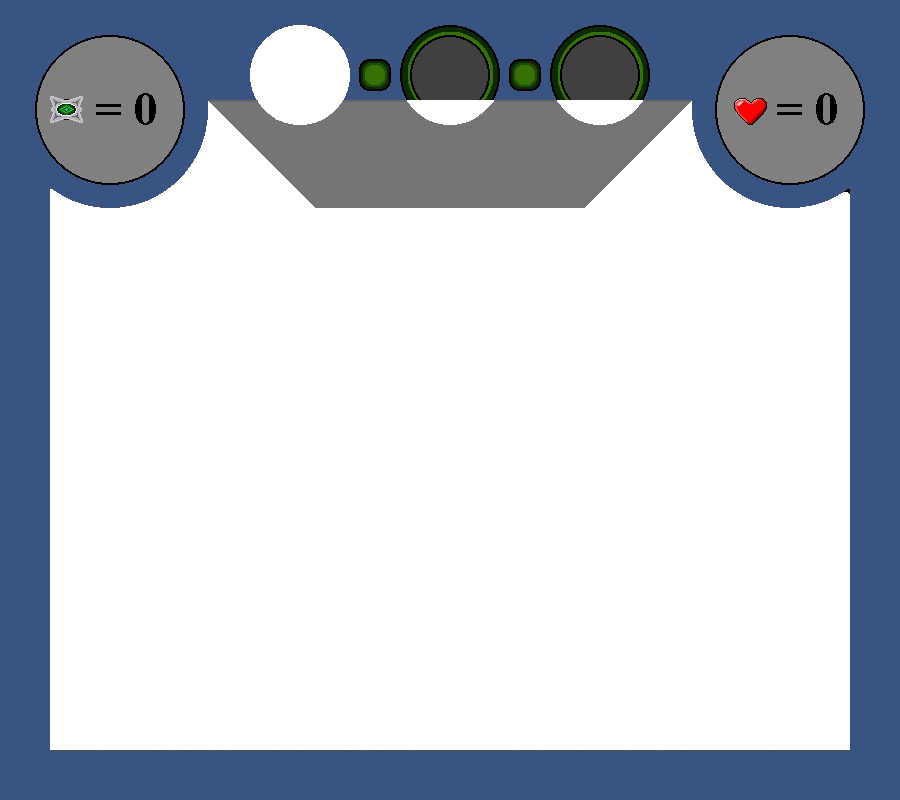
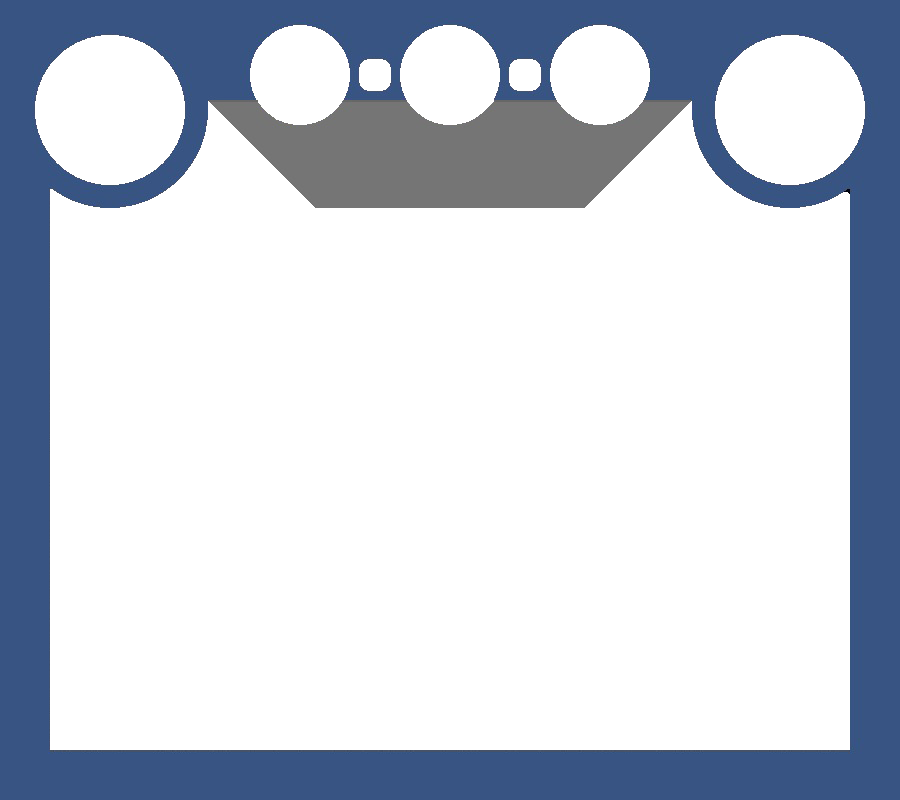
UI is WIP, but much progress was made.  PowerUp images are placeholder using existing animations to show what it could look like.

Changed region(s): [[0.7778, 0.0312, 0.9644, 0.25], [0.0311, 0.0312, 0.2178, 0.25], [0.4044, 0.0312, 0.7467, 0.125]]

diff --git a/js/GameScene.js b/js/GameScene.js
@@ -2,6 +2,7 @@
 const PowerUpType = {
 	None:"none",
 	Speed:"speed",
+	Missile:"missile",
 	Double:"double",
 	Laser:"laser",
 	Triple:"triple",
@@ -30,6 +31,7 @@ function GameScene(levelIndex) {
 	const enemyBullets = new Set();
 	let score = 0;
 	let powerUpToActivate = PowerUpType.None;
+	let uiManager = new UIManager();
 	
 	const populateWorld = function(worldPos) {
 		const terrain = data.initializeTerrain();
@@ -100,6 +102,8 @@ function GameScene(levelIndex) {
 		collisionBodiesToRemove = [];
 		
 		if(this.shaking) {this.screenShake();}
+		
+		uiManager.update(deltaTime);
 	};
 	
 	this.reset = function() {
@@ -203,13 +207,12 @@ function GameScene(levelIndex) {
 
 		drawPowerUpBar(PowerUpType, powerUpToActivate);
 
-		drawGameFrame();
+		uiManager.draw();
 //	    score.draw();//TODO: implement this
 	};
 	
 	this.collectedCapsule = function() {
 		incrementPowerUpToActivate();
-		console.log("Update UI to show that the player collected another capsule");
 	};
 	
 	this.removePlayer = function() {
@@ -220,6 +223,7 @@ function GameScene(levelIndex) {
 			remainingLives--;
 			player.reset();
 			powerUpToActivate = PowerUpType.None;
+			uiManager.reset();
 		}
 	};
 	
@@ -272,9 +276,11 @@ function GameScene(levelIndex) {
 		switch(powerUpToActivate) {
 			case PowerUpType.None:
 				powerUpToActivate = PowerUpType.Speed;
-				//powerUpToActivate = PowerUpType.Laser;
 				break;
 			case PowerUpType.Speed:
+				powerUpToActivate = PowerUpType.Missile;
+				break;
+			case PowerUpType.Missile:
 				powerUpToActivate = PowerUpType.Double;
 				break;
 			case PowerUpType.Double:
@@ -293,22 +299,32 @@ function GameScene(levelIndex) {
 				powerUpToActivate = PowerUpType.Force;
 				break;
 			case PowerUpType.Force:
-				powerUpToActivate = PowerUpType.None;
+				powerUpToActivate = PowerUpType.Speed;
 				break;
 		}
+
+		uiManager.incrementActivePowerUp();
 		printPowerUps(PowerUpType, powerUpToActivate);
-		console.log("PowerUp To Activate: " + powerUpToActivate);
 	}
 	
 	this.activatePowerUp = function() {
-		console.log('activating power up');
+		if(!uiManager.getCanActivatePowerUp()) {
+			//play buzzer => can't activate a power up right now
+			return;
+		}
+		
 		switch(powerUpToActivate) {
 			case PowerUpType.None:
 				return;//No power up so exit now and don't play the activation sound
 			case PowerUpType.Speed:
 				player.incrementSpeed();
 				powerUpToActivate = PowerUpType.None;
-				return;
+				break;
+			case PowerUpType.Missile:
+//				player.[Give The Player Missiles];//TODO: implement this
+				console.log("Tried to give the player Missiles");
+				powerUpToActivate = PowerUpType.None;
+				break;
 			case PowerUpType.Double:
 //				player.setShotTo(EntityType.PlayerDouble);//TODO: restore this once Double is implemented
 				console.log("Tried to set player shot to Double");
@@ -341,6 +357,8 @@ function GameScene(levelIndex) {
 			default:
 				break;
 		}
+		
+		uiManager.reset();
 		//powerUpActivated.play();//TODO: need this SFX track in the game, goes at the end so it isn't played if "None" is the power up
 	};
 	
@@ -400,10 +418,6 @@ function GameScene(levelIndex) {
 
 	};
 	
-	const drawGameFrame = function() {
-		canvasContext.drawImage(gameFrame, 0, 0, gameFrame.width, gameFrame.height, 0, 0, canvas.width, canvas.height);
-	}
-
 	const printPowerUps = function(powerUpItems, selected = powerUpToActivate) {
 		const powerUpNames = Object.values(powerUpItems);
 		const DISABLED_COLOR = '#A8A8A8';

diff --git a/js/UIEntities/PowerUpUI.js b/js/UIEntities/PowerUpUI.js
@@ -1,0 +1,94 @@
+//PowerUpUI
+function PowerUpUI(position, highlighted = false, contains = PowerUpType.None) {
+	this.position = {x: position.x, y: position.y};
+	let isLit = highlighted;
+	let contentsType = contains;
+	
+	let darkSprite = new AnimatedSprite(darkPowerUpUI, 5, 100, 100, true, true, {min: 0, max: 0}, 0, {min: 0, max: 4}, 256, {min: 4, max: 4}, 0);
+	let lightSprite = new AnimatedSprite(lightedPowerUpUI, 5, 100, 100, true, true, {min: 0, max: 0}, 0, {min: 0, max: 4}, 256, {min: 4, max: 4}, 0);
+	
+	let sprite = darkSprite;
+	if(isLit) {
+		console.log("Lit");
+		sprite = lightSprite;
+	}
+	
+	this.size = {width:sprite.width, height:sprite.height};
+	
+	const spriteForContentsType = function(type) {
+		switch(type) {
+			case PowerUpType.None:
+				return null;
+			case PowerUpType.Speed:
+				return (new AnimatedSprite(flyingEnemySheet, 5, 30, 21, true, true, {min:0, max:0}, 0, {min:0, max:4}, 128, {min:4, max:4}, 0));
+				return null;//TODO: need a spritesheet for this
+			case PowerUpType.Missile:
+				return (new AnimatedSprite(flyingEnemy2Sheet, 6, 50, 50, false, true, {min:0, max:0}, 0, {min:0, max:5}, 256, {min:5, max:5}, 0));
+				return null;//TODO: need a spritesheet for this
+			case PowerUpType.Double:
+				return (new AnimatedSprite(playerBoom2Sheet, 13, 80, 80, false, true, {min:0, max:0}, 0, {min:0, max:12}, 64, {min:12, max: 12}, 0));
+				return null;//TODO: need a spritesheet for this
+			case PowerUpType.Laser:
+				return (new AnimatedSprite(playerLaserShot, 13, 28, 6, false, true, {min:0, max:0}, 0, {min:0, max:12}, 128, {min:13, max:18}, 64));
+/*			case PowerUpType.Triple:
+				return null;//TODO: need a spritesheet for this
+			case PowerUpType.Ghost:
+				return null;//TODO: need a spritesheet for this
+			case PowerUpType.Shield:
+				return null;//TODO: need a spritesheet for this
+			case PowerUpType.Force:
+				return null;//TODO: need a spritesheet for this*/
+			default://TODO: remove this, it is just for testing
+				return (new AnimatedSprite(playerLaserShot, 13, 28, 6, false, true, {min:0, max:0}, 0, {min:0, max:12}, 128, {min:13, max:18}, 64));			
+		}
+	};
+		
+	let contents = spriteForContentsType(contentsType);
+	
+	this.updateContentPosition = function() {
+		if(contents == null) {
+			return {x:this.position.x, y:this.position.y};
+		} else {
+			const xPos = this.position.x + (this.size.width / 2) - (contents.width / 2);
+			const yPos = this.position.y + (this.size.height / 2) - (contents.height / 2);
+			return {x: xPos, y: yPos};
+		}
+	}
+	
+	let contentPosition = this.updateContentPosition();
+	
+	this.setIsHighlighted = function(isHighlighted) {
+		if(isHighlighted !== isLit) {
+			isLit = isHighlighted;
+			if(isLit) {
+				sprite = lightSprite;
+			} else {
+				sprite = darkSprite;
+			}
+		}
+	};
+	
+	this.setContents = function(newContent) {
+		contentsType = newContent;
+		contents = spriteForContentsType(contentsType);
+		contentPosition = this.updateContentPosition();
+	};
+	
+	this.update = function(deltaTime) {
+		sprite.update(deltaTime);
+		
+		if(contents != null) {
+			contents.update(deltaTime);
+		}
+	};
+	
+	this.draw = function() {
+		sprite.drawAt(this.position, this.size);
+		
+		if(contents != null) {
+			contents.drawAt(contentPosition, {width:contents.width, height:contents.height});//TODO: fix this after the base object is working correctly
+		}
+	};
+	
+	return this;
+}

diff --git a/js/UIEntities/UIManager.js b/js/UIEntities/UIManager.js
@@ -1,0 +1,79 @@
+//UI Manager
+function UIManager() {
+	let page = 0;
+	const PAGES = Object.keys(PowerUpType).length;
+	let elements = [];
+	let highlightedIndex = -1;
+	
+	elements.push(new PowerUpUI({x: 250, y: 25}));
+	elements.push(new SpacerUI({x: 359, y: 59}));
+	elements.push(new PowerUpUI({x: 400, y: 25}));
+	elements.push(new SpacerUI({x: 509, y: 59}));
+	elements.push(new PowerUpUI({x: 550, y: 25}));
+	
+	const updateContents = function() {
+		const types = Object.values(PowerUpType);
+		console.log("Types: " + types);
+		elements[0].setContents(types[1 + (3 * page)]);
+		elements[2].setContents(types[2 + (3 * page)]);
+		elements[4].setContents(types[3 + (3 * page)]);
+	};
+	
+	updateContents();
+	
+	this.getCanActivatePowerUp = function() {
+		if((highlightedIndex < 0) ||
+		   (highlightedIndex == 1) ||
+		   (highlightedIndex == 3)) {
+			   return false;
+		}
+		
+		return true;
+	};
+		
+	this.incrementActivePowerUp = function() {
+		if(highlightedIndex >= 0) {
+			elements[highlightedIndex].setIsHighlighted(false);		
+		}
+		
+		highlightedIndex++;
+		
+		if(page < 1) {//for the first page, skip the spacer => reach next powerUp faster
+			if((highlightedIndex == 1) || (highlightedIndex == 3)) {
+				highlightedIndex++;
+			}
+		}
+		
+		if(highlightedIndex >= elements.length) {
+			highlightedIndex = 0;
+			page++;
+			updateContents();
+			if(page == PAGES) {page = 0;}
+		}
+		
+		elements[highlightedIndex].setIsHighlighted(true);
+	};
+	
+	this.update = function(deltaTime) {
+		for(let i = 0; i < elements.length; i++) {
+			elements[i].update(deltaTime);
+		}
+	};
+	
+	this.draw = function() {
+		canvasContext.drawImage(gameFrame, 0, 0, gameFrame.width, gameFrame.height, 0, 0, canvas.width, canvas.height);
+
+		for(let i = 0; i < elements.length; i++) {
+			elements[i].draw();
+		}
+	};
+	
+	this.reset = function() {
+		page = 0;
+		if(highlightedIndex >= 0) {
+			elements[highlightedIndex].setIsHighlighted(false);
+			highlightedIndex = -1;
+		}
+		updateContents();
+	};
+}

diff --git a/js/UIEntities/SpacerUI.js b/js/UIEntities/SpacerUI.js
@@ -1,0 +1,37 @@
+//SpacerUI
+function SpacerUI(position, highlighted = false) {
+	this.position = {x: position.x, y: position.y};
+	let isLit = highlighted;
+	
+	let darkSprite = new AnimatedSprite(darkSpacerUI, 5, 32, 32, true, true, {min: 0, max: 0}, 0, {min: 0, max: 4}, 256, {min: 4, max: 4}, 0);
+	let lightSprite = new AnimatedSprite(lightedSpacerUI, 5, 32, 32, true, true, {min: 0, max: 0}, 0, {min: 0, max: 4}, 256, {min: 4, max: 4}, 0);
+	
+	let sprite = darkSprite;
+	if(isLit) {
+		console.log("Lit");
+		sprite = lightSprite;
+	}
+	
+	this.size = {width:sprite.width, height:sprite.height};
+		
+	this.setIsHighlighted = function(isHighlighted) {
+		if(isHighlighted !== isLit) {
+			isLit = isHighlighted;
+			if(isLit) {
+				sprite = lightSprite;
+			} else {
+				sprite = darkSprite;
+			}
+		}
+	};
+	
+	this.update = function(deltaTime) {
+		sprite.update(deltaTime);
+	};
+	
+	this.draw = function() {
+		sprite.drawAt(this.position, this.size);
+	};
+	
+	return this;
+}

diff --git a/js/ImageLoading.js b/js/ImageLoading.js
@@ -1,6 +1,10 @@
 //Image Loading
 //UI
 const gameFrame = document.createElement("img");
+const lightedPowerUpUI = document.createElement("img");
+const darkPowerUpUI = document.createElement("img");
+const lightedSpacerUI = document.createElement("img");
+const darkSpacerUI = document.createElement("img");
 
 //Backgrounds
 const starSheet = document.createElement("img");
@@ -52,8 +56,12 @@ function beginLoadingImage(imgVar, fileName) {
 
 function loadImages() {
     const imageList = [
-	    //UI
+	    //UI 
         { imgName: gameFrame, theFile: "TempGameUI.png" },	    
+        { imgName: lightedPowerUpUI, theFile: "LightedPowerUpUI.png" },	    
+        { imgName: darkPowerUpUI, theFile: "DarkPowerUpUI.png" },	    
+        { imgName: lightedSpacerUI, theFile: "LightedSpacerUI.png" },	    
+        { imgName: darkSpacerUI, theFile: "DarkSpacerUI.png" },	    
 
         // backgrounds
         { imgName: starSheet, theFile: "Stars.png" },

diff --git a/index.html b/index.html
@@ -55,6 +55,9 @@
 	<script src="js/GameEntities/EnemyGroup.js"></script>
 	<script src="js/GameEntities/TextEntity.js"></script>
 	<script src="js/GameEntities/DebrisEntity.js"></script>
+	<script src="js/UIEntities/PowerUpUI.js"></script>
+	<script src="js/UIEntities/SpacerUI.js"></script>
+	<script src="js/UIEntities/UIManager.js"></script>
 	<script src="js/Chronogram.js"></script>
 	<script src="js/GraphicsCommon.js"></script>
 	<script src="js/ImageLoading.js"></script>
